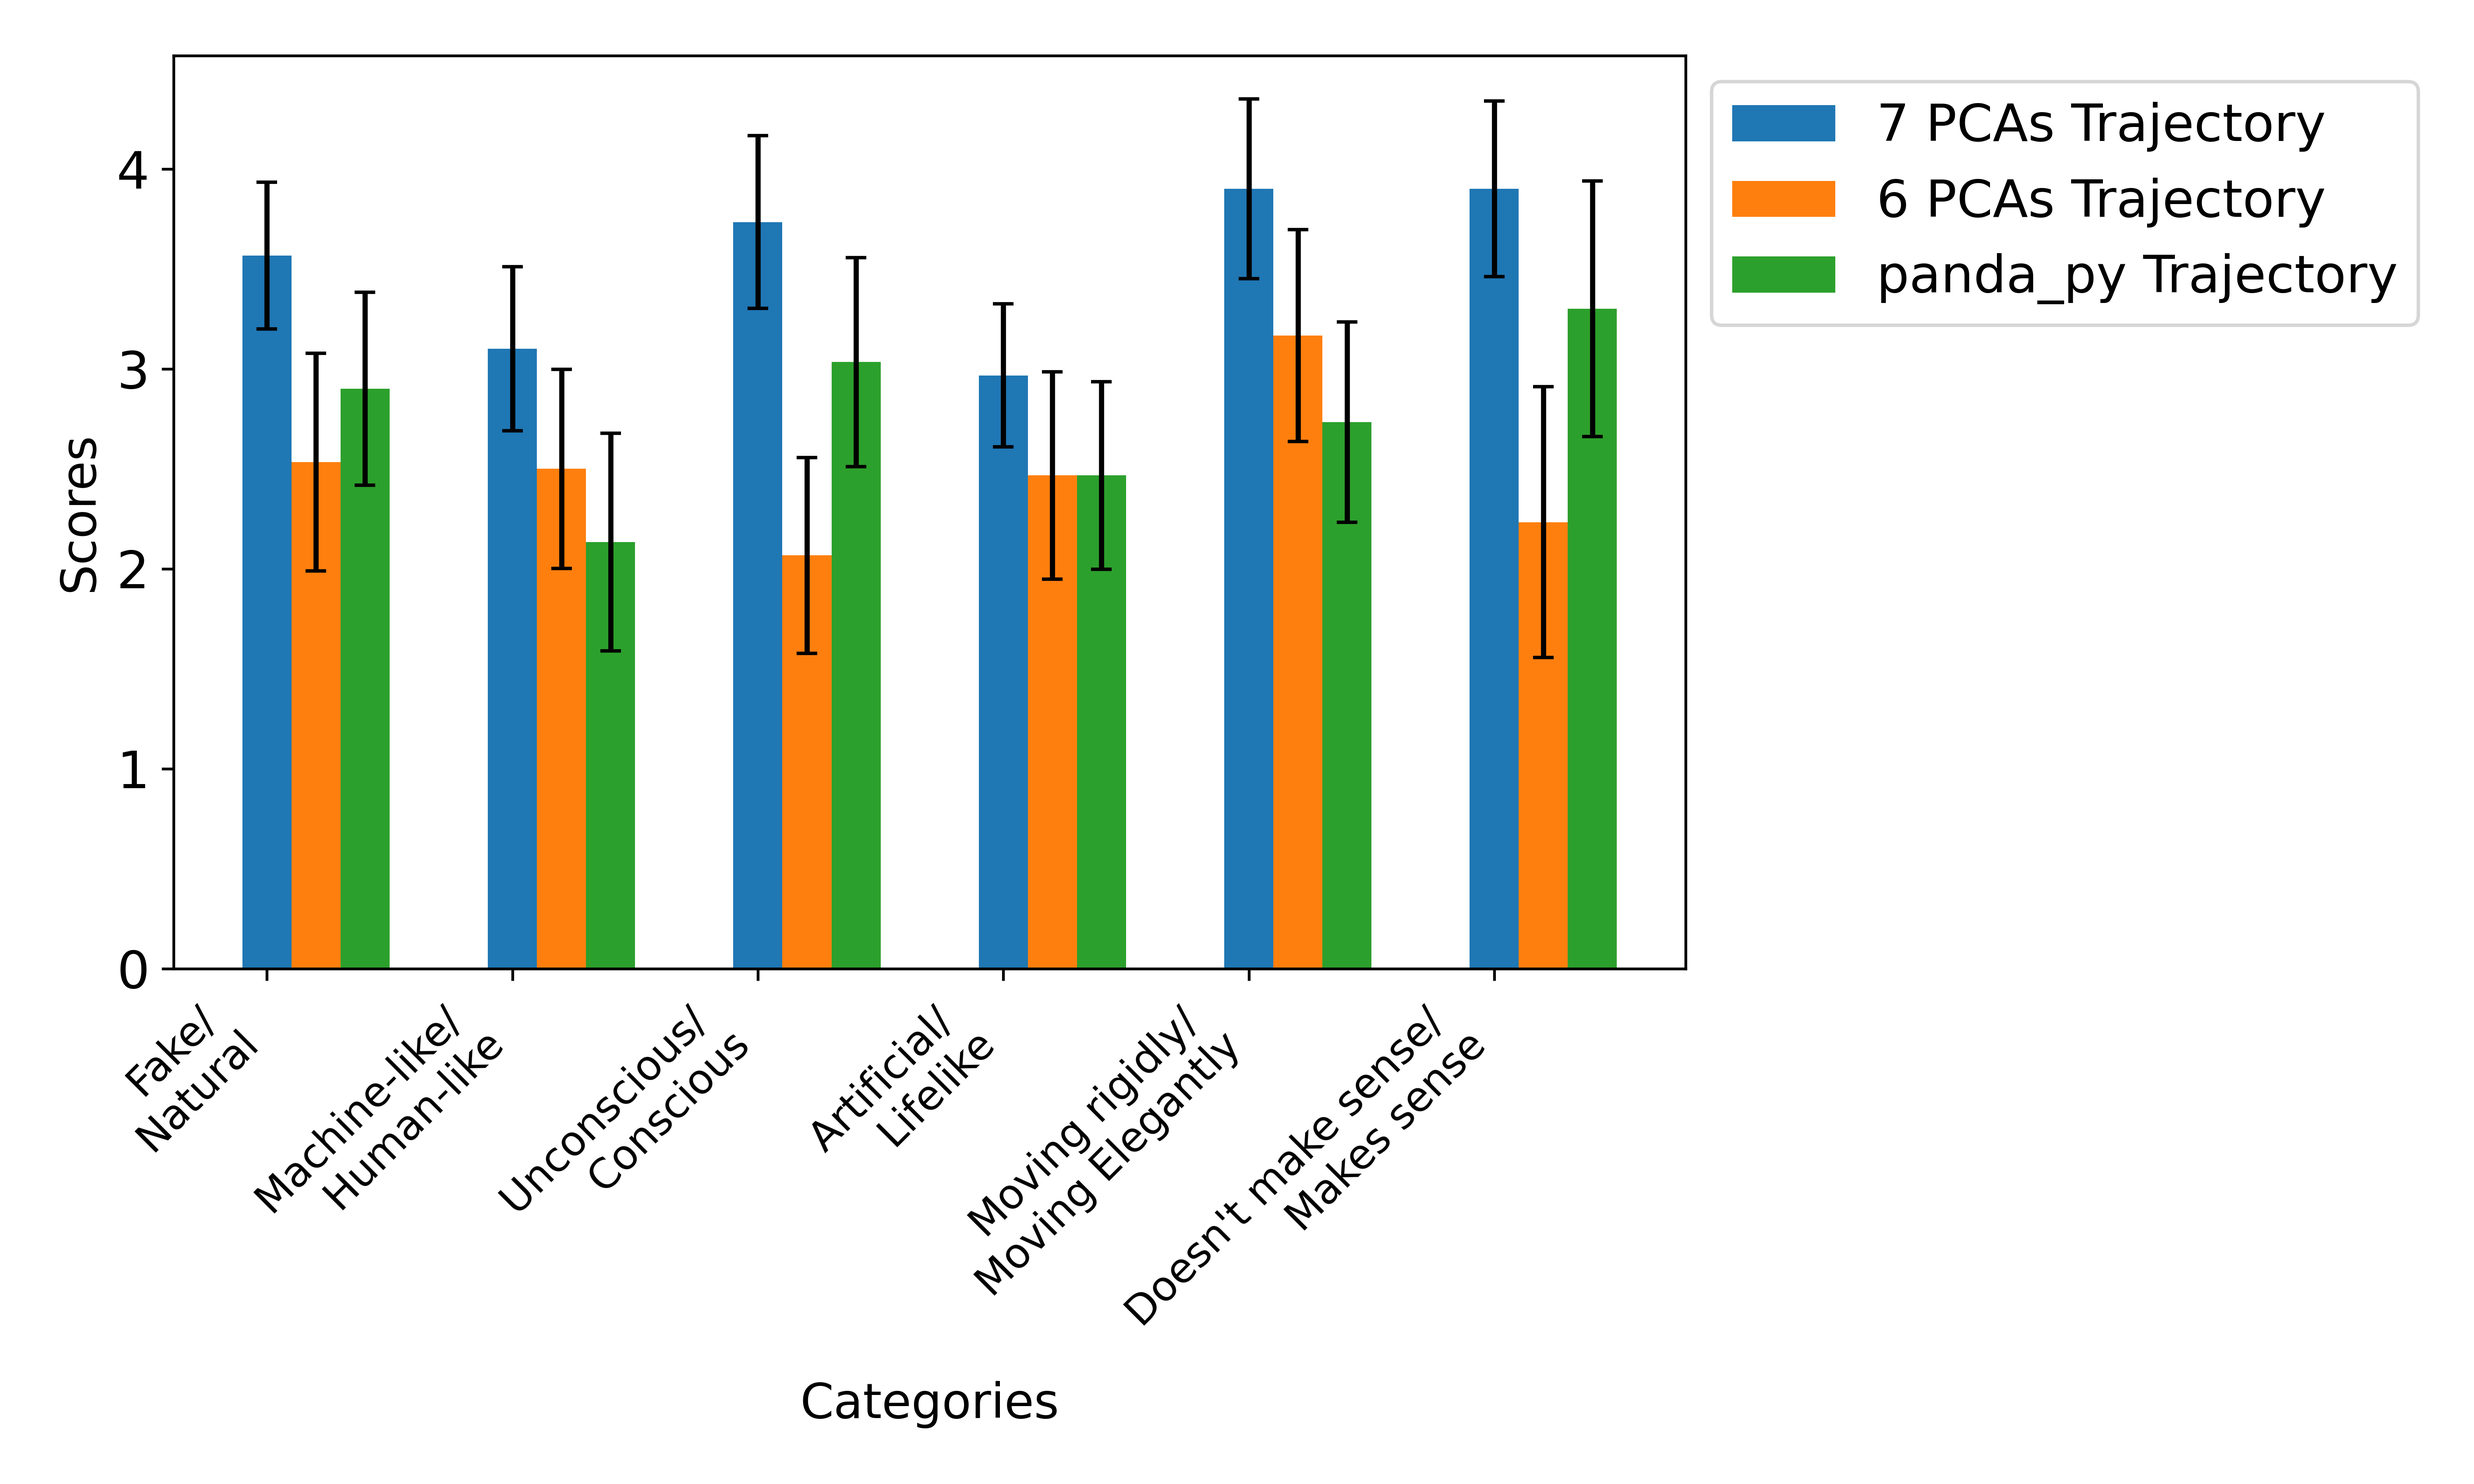
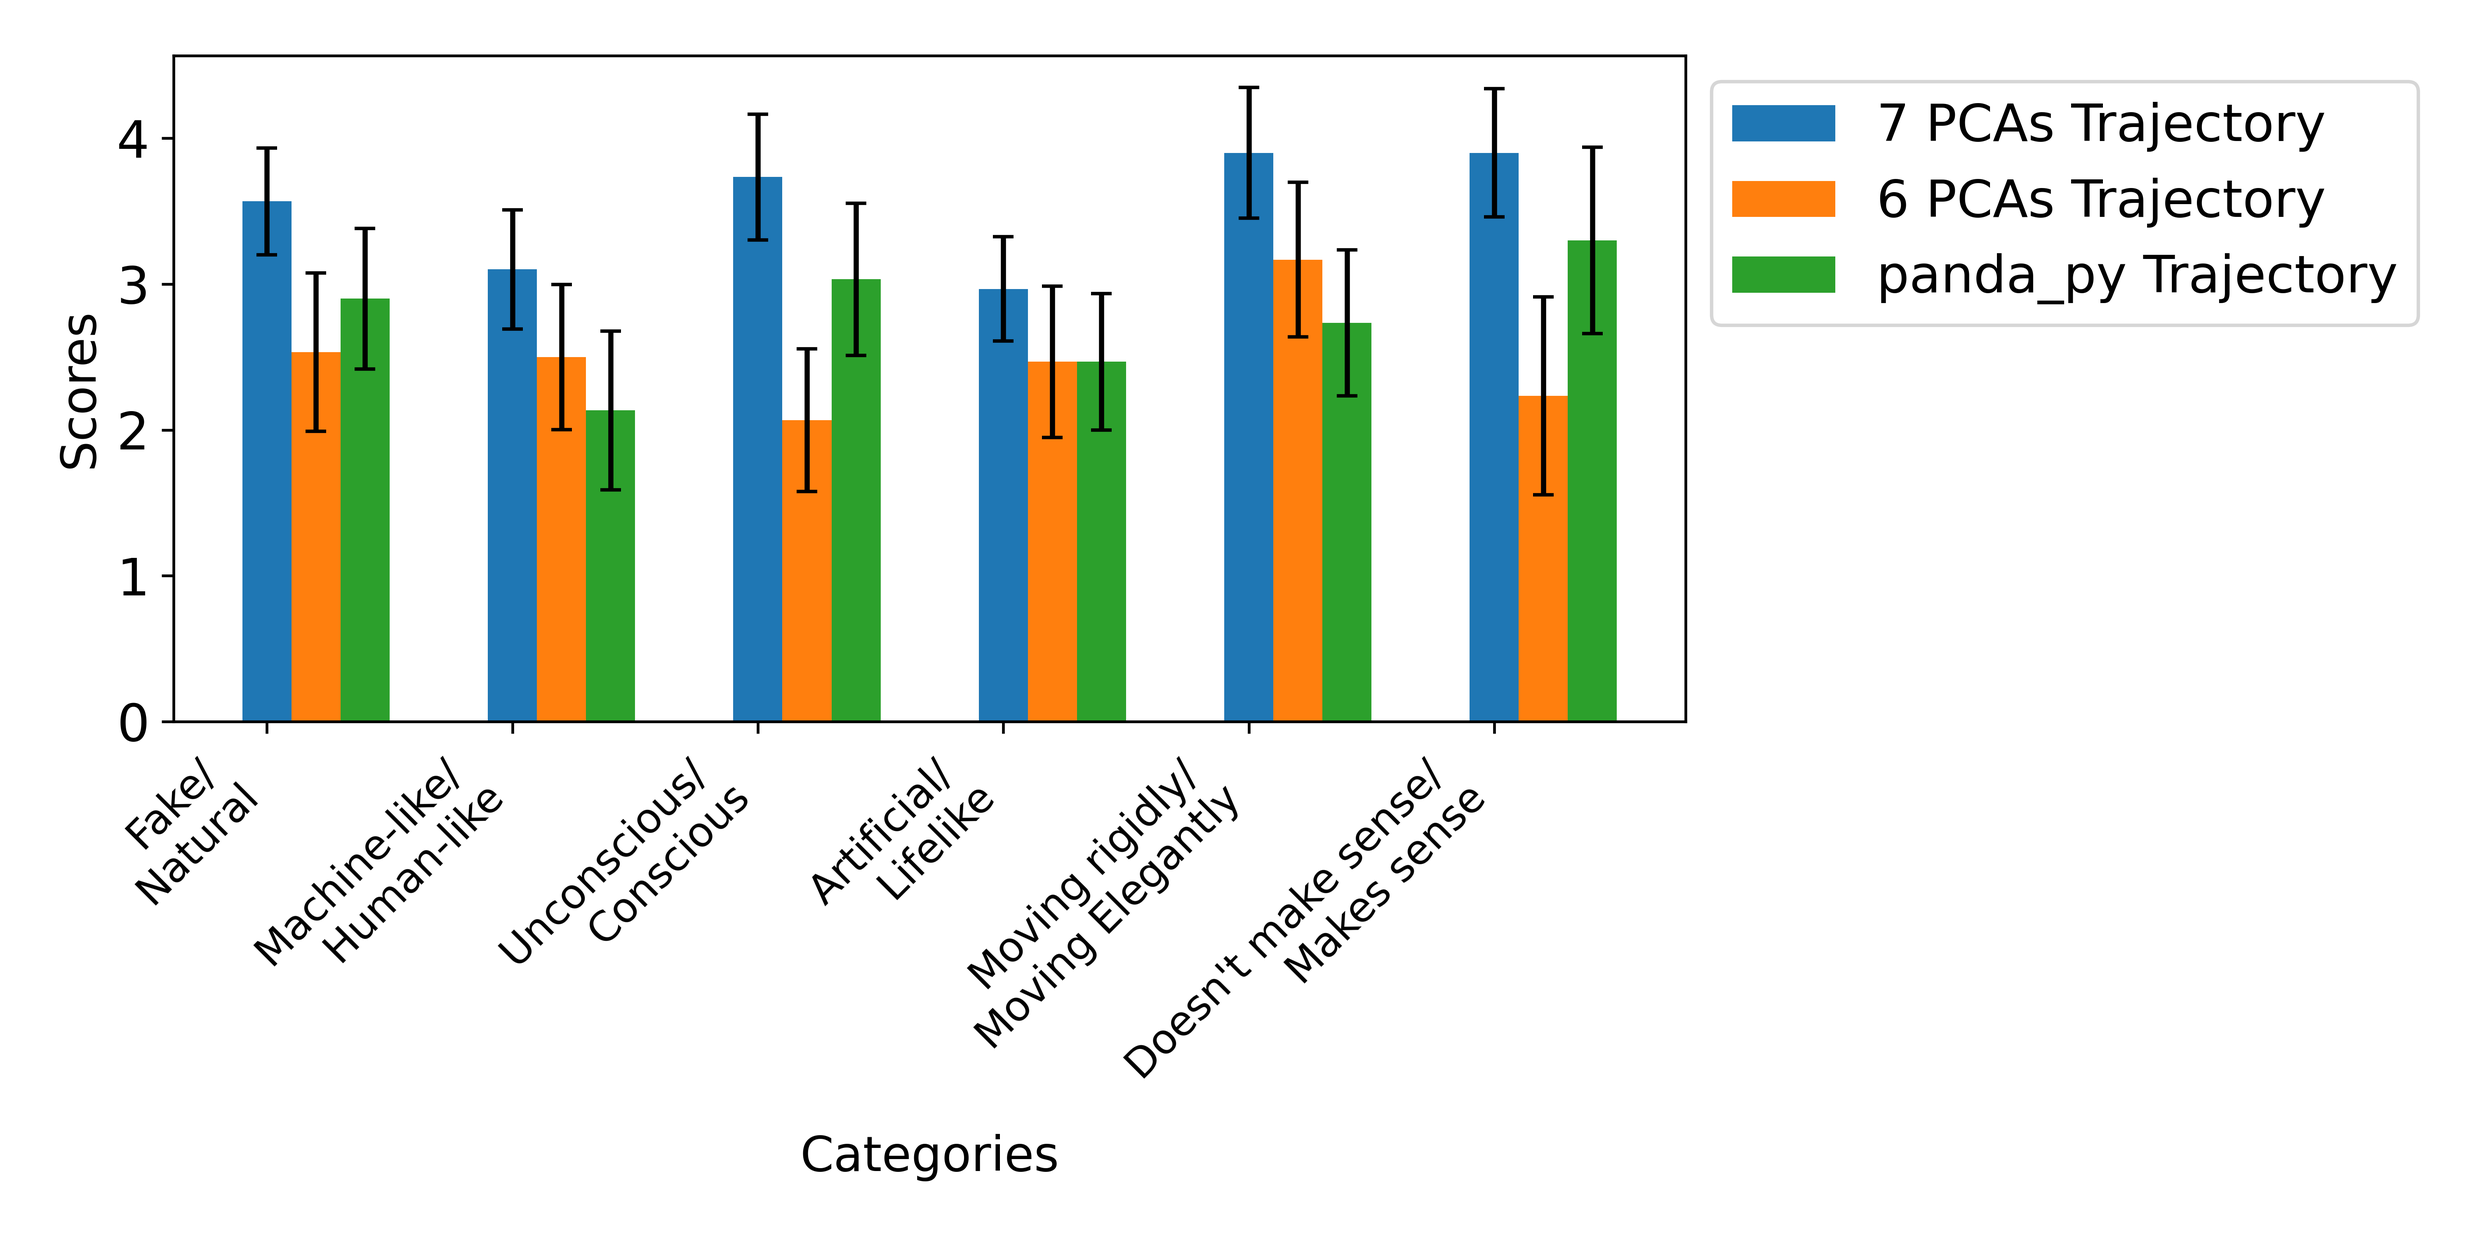
ratio changed

diff --git a/questionnaire/generate_plots.py b/questionnaire/generate_plots.py
@@ -73,7 +73,7 @@ for i, (method_idx1, method_idx2, method_idx3) in enumerate(method_groups):
     selected_methods = [methods[method_idx1], methods[method_idx2], methods[method_idx3]]
     
     # Create a figure for each group of methods
-    fig, ax = plt.subplots(figsize=(10, 6), dpi=600)
+    fig, ax = plt.subplots(figsize=(10, 5), dpi=600)
     
     # cmap = plt.get_cmap('Set1')
     # colors = cmap(np.linspace(0, 1, len(selected_data)))
@@ -125,7 +125,7 @@ with open(file_path, "w") as file:
     
 markdown_files.append(file_path)
 
-fig, ax = plt.subplots(figsize=(10, 6), dpi= 600)
+fig, ax = plt.subplots(figsize=(10, 5), dpi= 600)
 for k, method_data in enumerate(grouped_data):
         ax.bar(index + k * bar_width, method_data, bar_width, yerr=grouped_errors[k], 
                label=methods_all[k], capsize=3)
